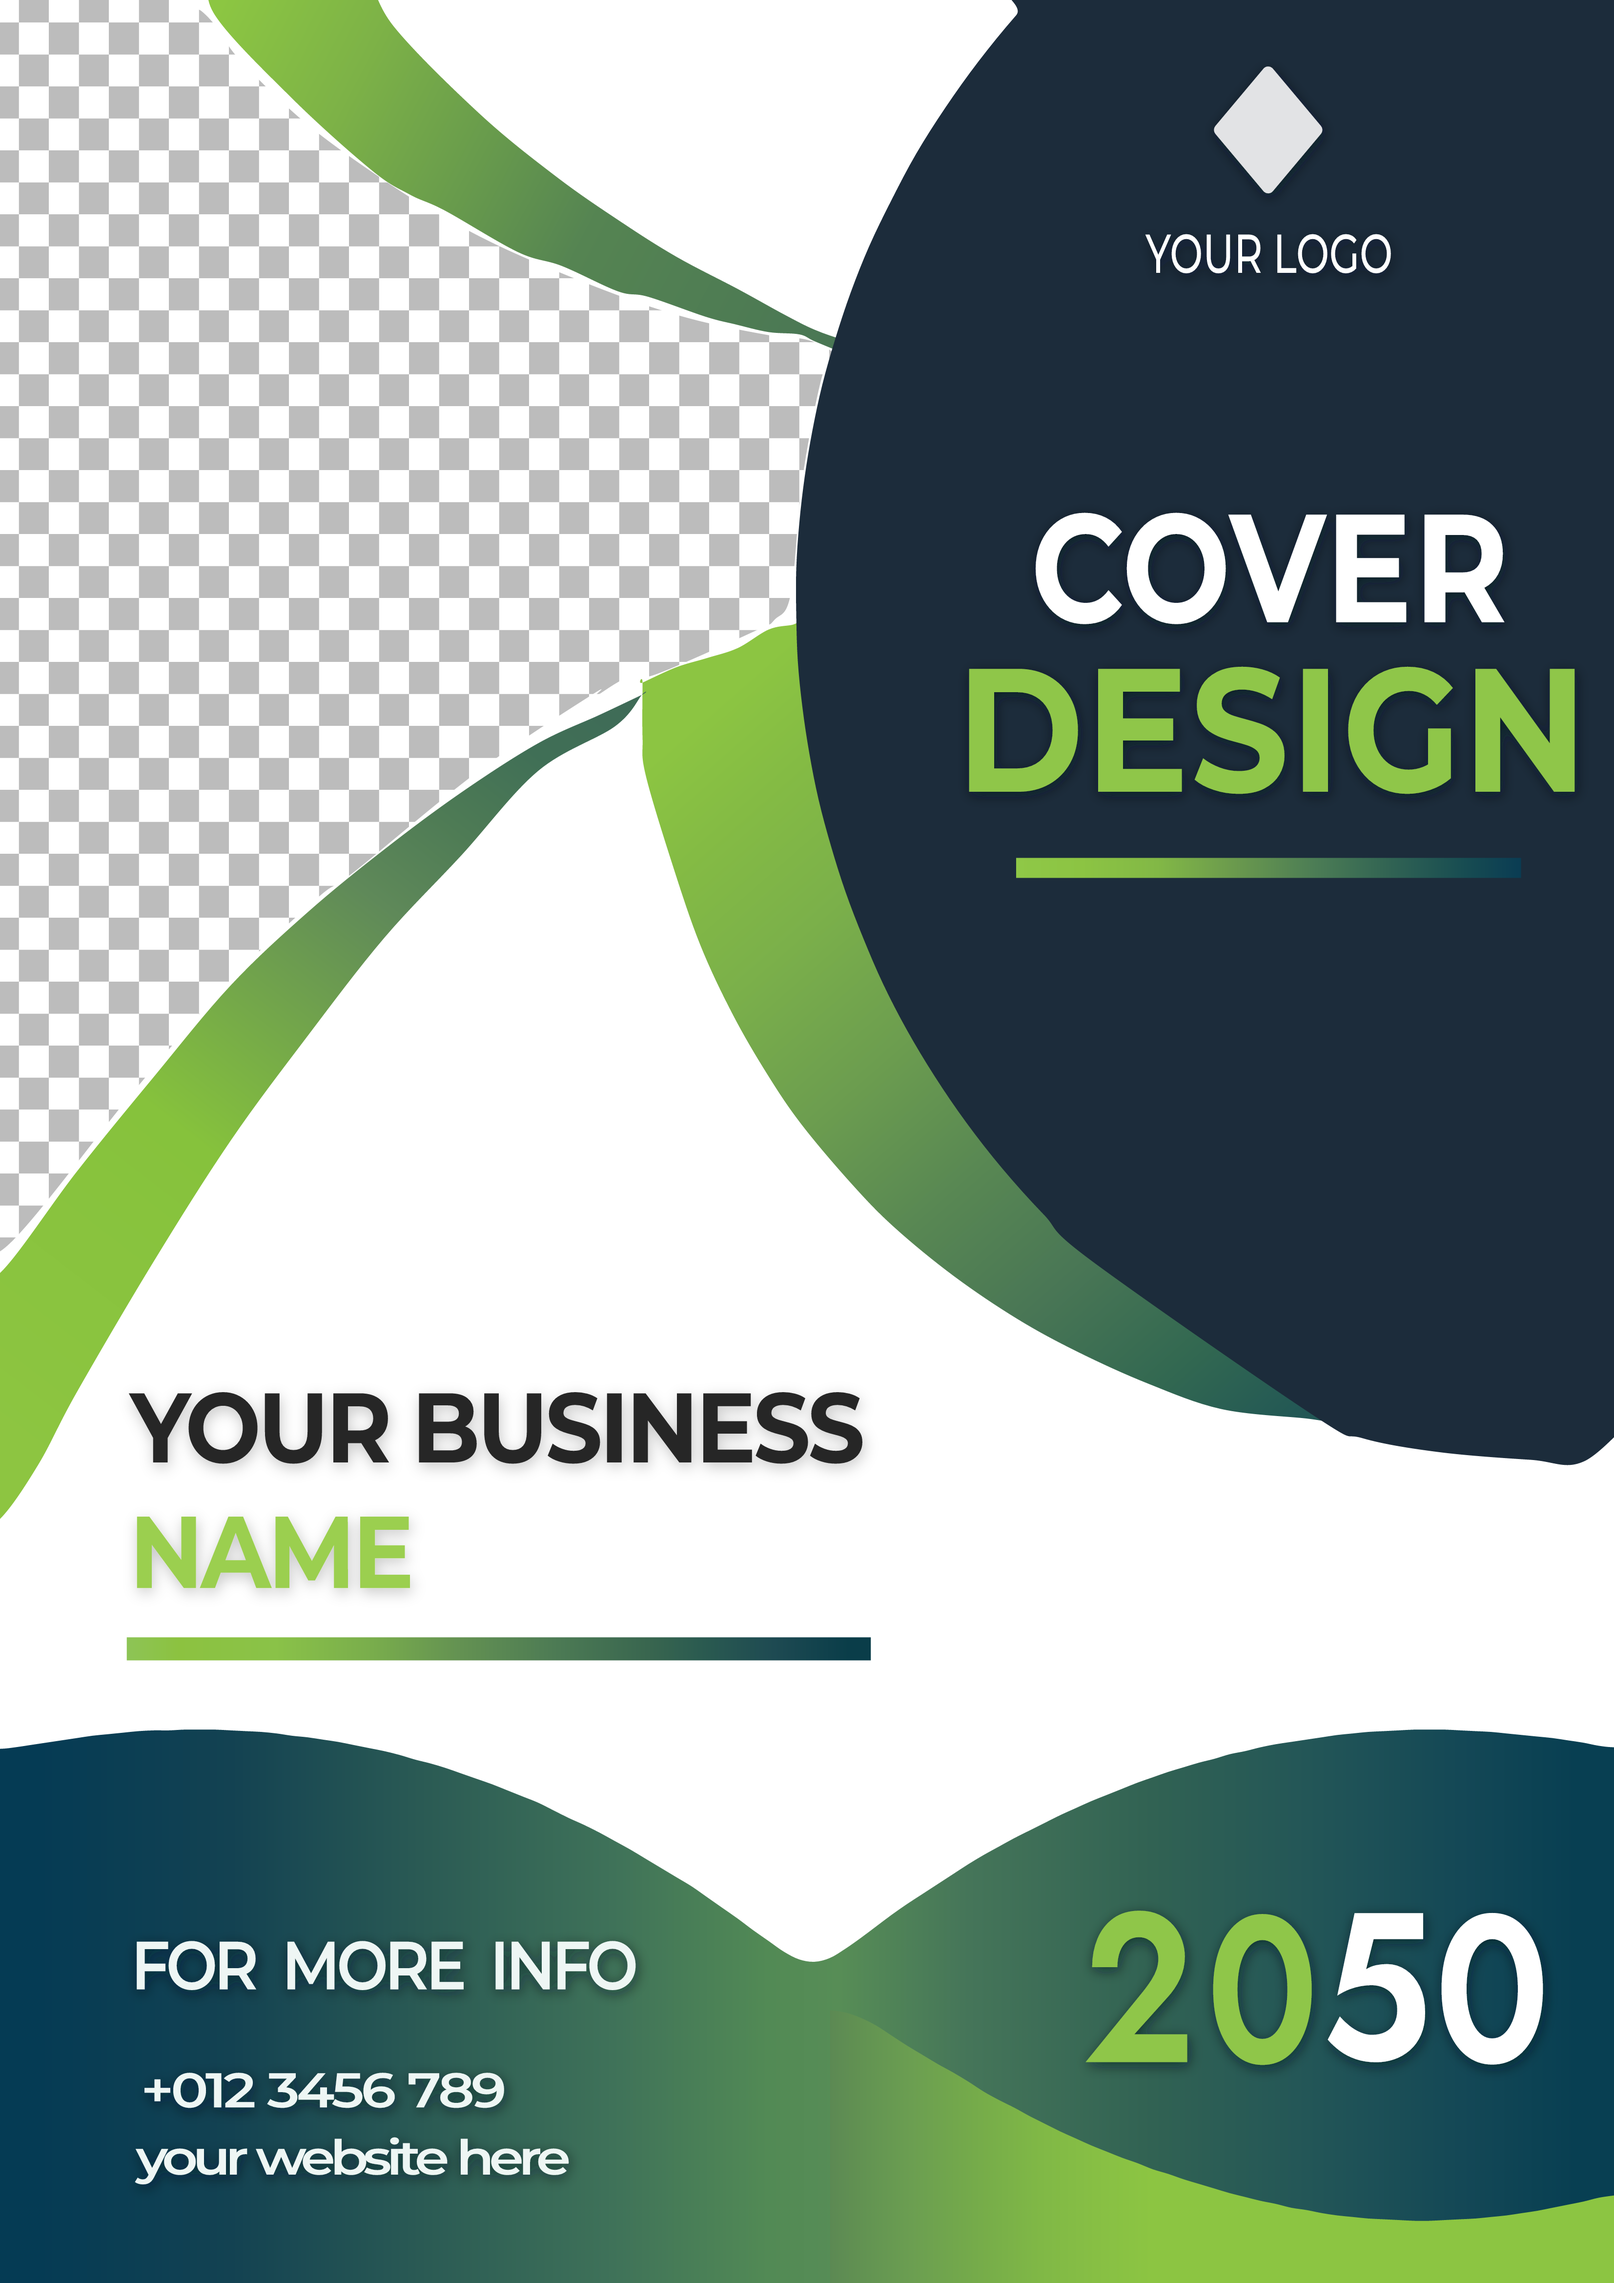
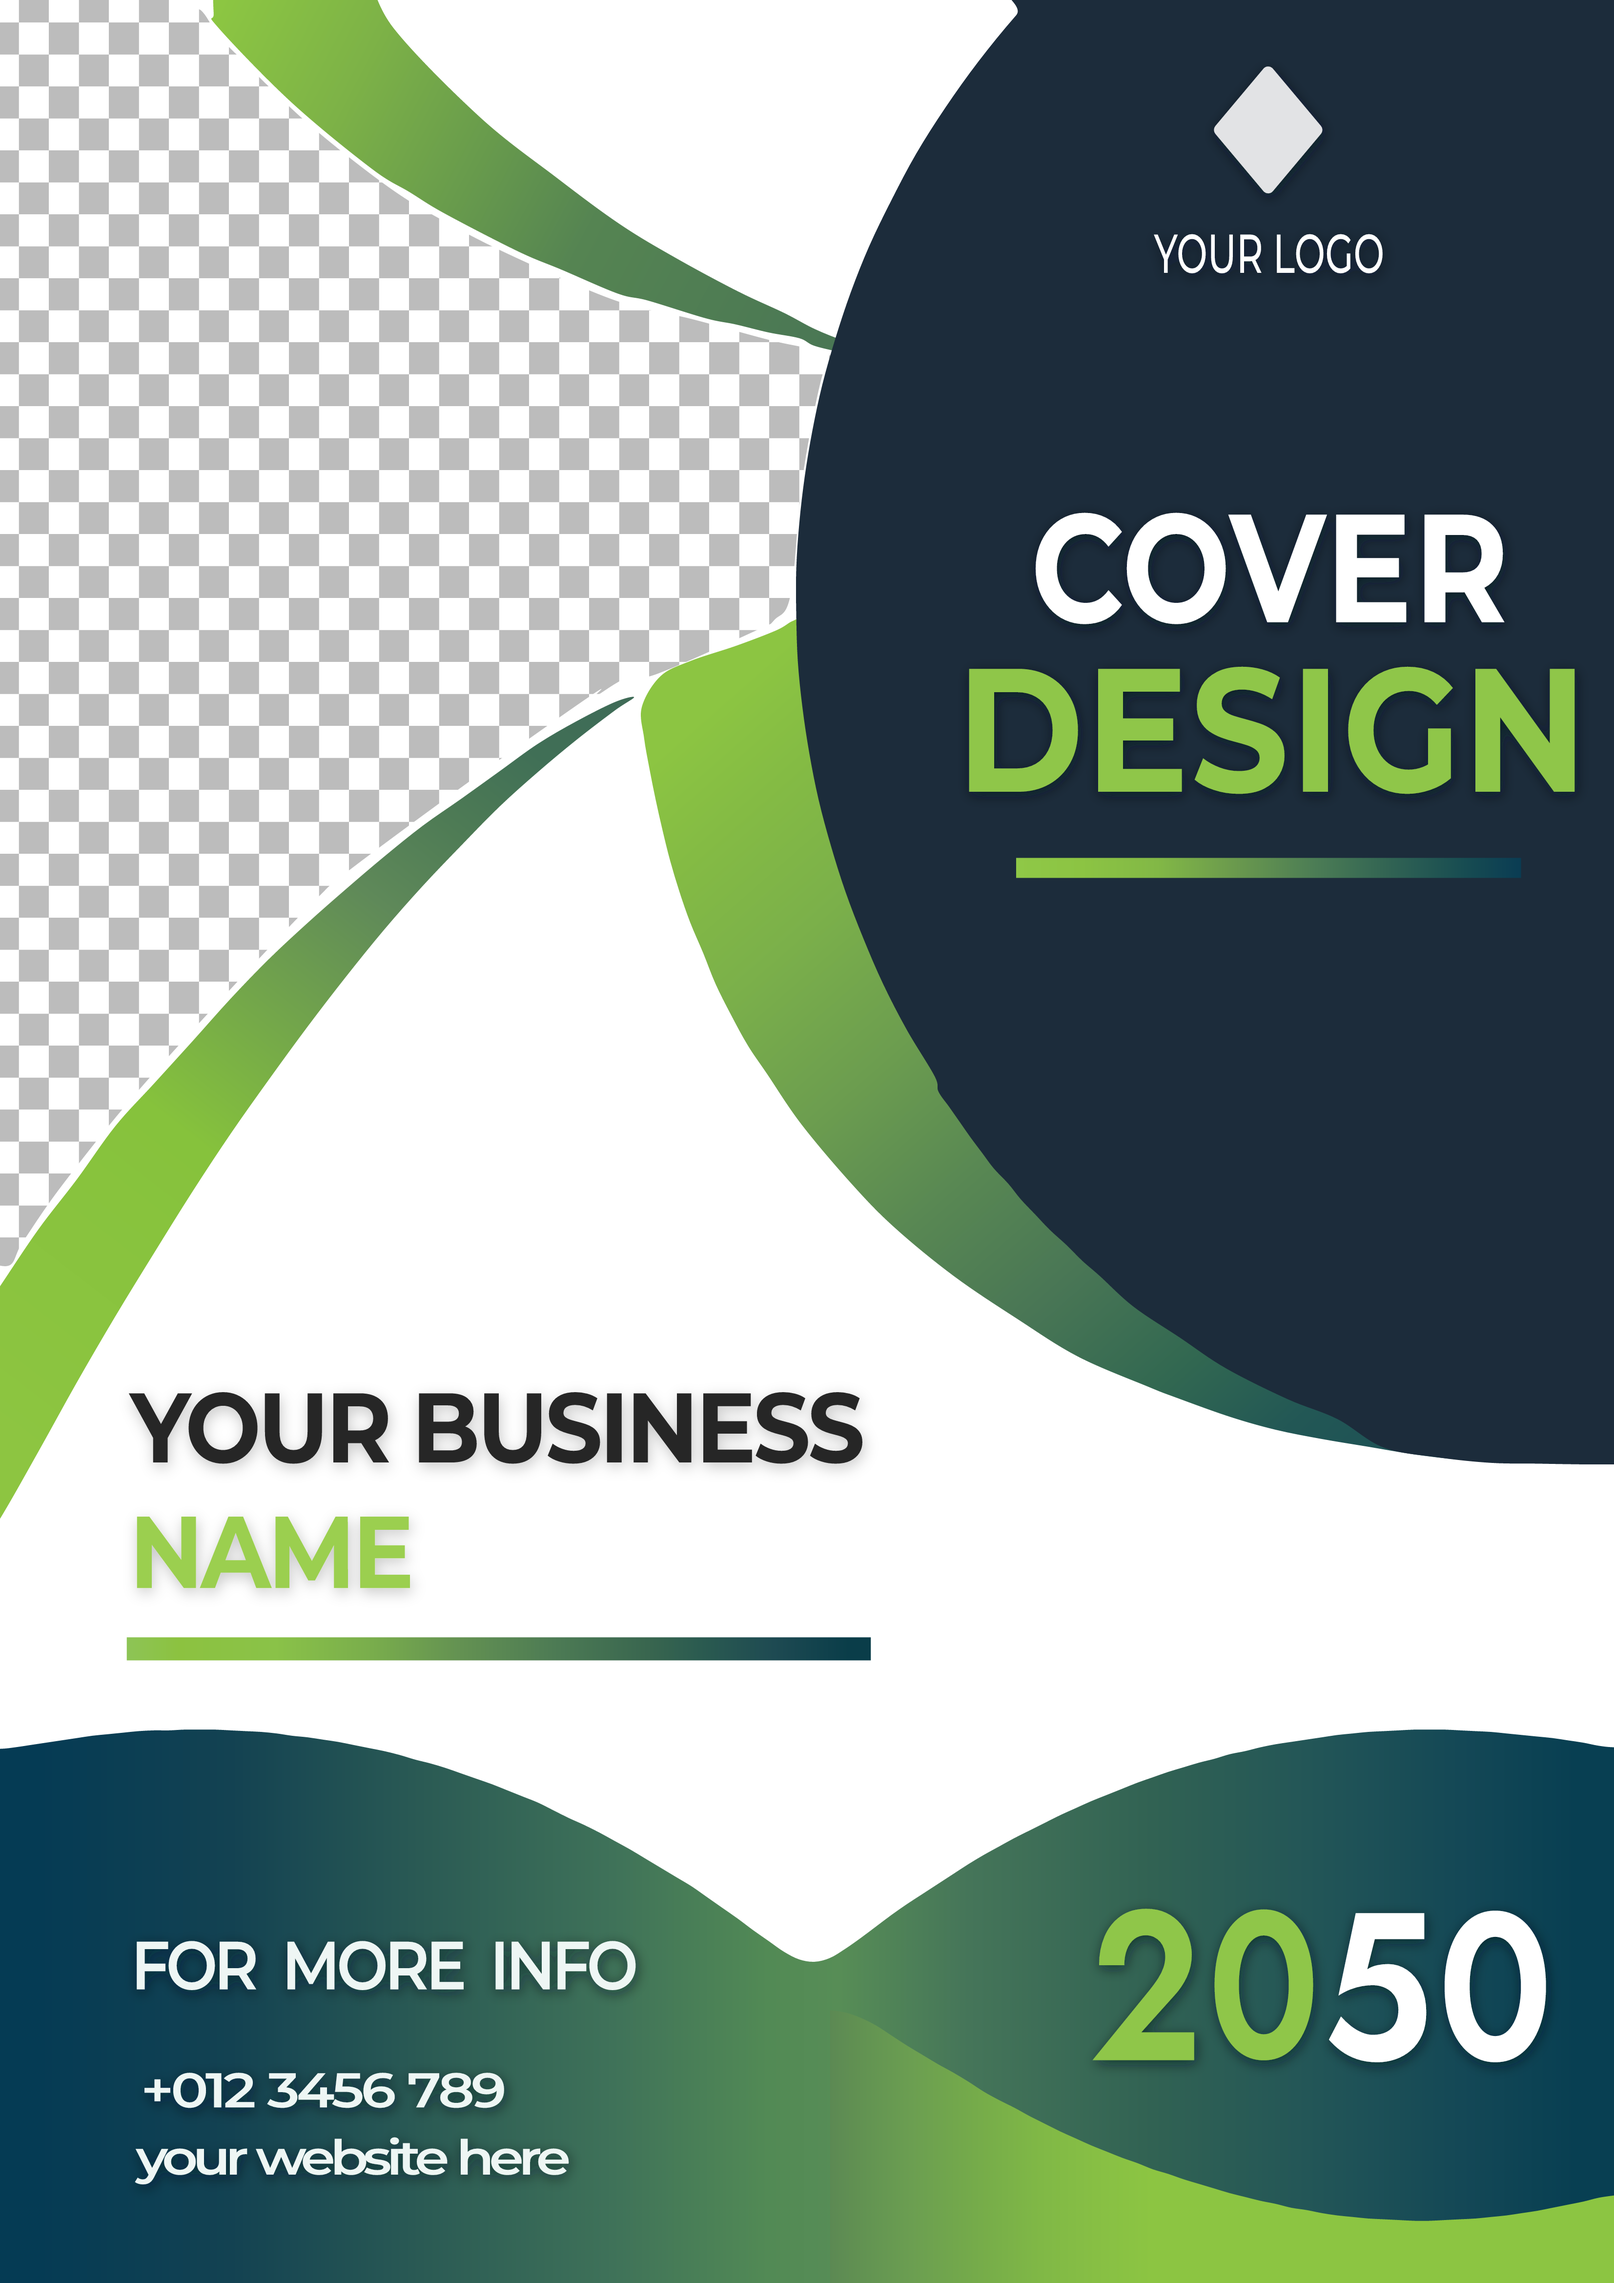
cover: trace ribbon, band and disc edges from 50 % crossings; white margin around the shapes
- Swoosh and left ribbon rebuilt from per-column 50 % crossings (both were
  ~1 mm too thick); band's upper-left edge and the crescent's lower edge follow
  the measured curves; disc's lower-left arc and bottom edge measured.
- The transparency grid keeps a ~1 mm white margin from the green shapes, as
  in the reference; the spline overshoot at the disc's right corner is gone.
- Year digits nudged (positions/baselines within 0.3 mm); YOUR LOGO condensed
  to .67 so its ink width matches.
- Mean pixel diff vs the reference: 6.05 -> 5.74.

diff --git a/scripts/build_cover.py b/scripts/build_cover.py
@@ -249,29 +249,37 @@ class Art:
 # from the trim corner. Ribbon, disc and grid contours are closed; panel_top and
 # band_top are open edges running left to right.
 SHAPES = {
-    'swoosh': [
-        (114.0, 47.2), (110.0, 46.0), (106.0, 44.4), (104.0, 43.5), (100.0, 43.2), (95.7, 42.2),
-        (91.8, 41.2), (84.3, 38.6), (80.4, 37.9), (73.1, 34.6), (67.4, 32.8),
-        (57.9, 27.4), (53.3, 25.3), (48.3, 22.1), (37.9, 12.7), (27.8, 1.7),
-        (27.9, -4.0), (29.5, -4.0), (44.5, -4.0), (47.4, -4.0), (51.2, 3.4),
-        (62.4, 14.8), (72.4, 23.0), (80.7, 28.8), (88.0, 33.4), (96.0, 37.6),
-        (102.0, 40.9), (106.0, 42.9), (110.0, 44.3), (114.0, 45.4),
+    'swoosh': [  # lower edge (tail -> top-left), bleed corner, upper edge (-> tail), all 50 % crossings
+        (114.0, 47.2), (110.0, 46.0), (106.0, 45.0), (104.0, 44.0), (100.0, 43.25),
+        (95.7, 42.2), (91.8, 41.4), (84.3, 39.1), (80.4, 38.2), (73.1, 35.1),
+        (67.4, 32.7), (57.9, 27.8), (53.3, 25.0), (48.3, 21.9), (37.9, 13.3),
+        (28.4, 3.6), (27.8, 1.7),
+        (27.9, -4.0), (29.5, -4.0), (44.5, -4.0), (47.4, -4.0),
+        (51.2, 3.65), (62.4, 15.2), (72.4, 23.1), (80.7, 29.2), (88.0, 33.6),
+        (96.0, 37.9), (102.0, 40.7), (106.0, 42.8), (110.0, 44.4), (114.0, 45.6),
     ],
-    'left': [  # upper edge then lower edge, read from the reference column by column
-        (0.0, 165.6), (10.0, 152.4), (20.0, 140.1), (30.0, 128.2), (40.0, 118.7),
-        (50.0, 110.5), (60.0, 103.1), (70.0, 96.7), (78.0, 93.0), (83.5, 90.4),
-        (83.5, 90.4), (80.0, 94.5), (70.0, 100.3), (60.0, 111.3), (50.0, 122.0),
-        (40.0, 134.8), (30.0, 148.4), (20.0, 164.1), (10.0, 181.1), (5.0, 190.5),
-        (0.0, 197.6), (-4.0, 199.5), (-4.0, 165.6),
+    'left': [  # upper edge (bleed -> tip) then lower edge (tip -> bleed); 50 % crossings
+        (-4.0, 173.3), (0.0, 167.33), (5.0, 159.92), (10.0, 153.42), (15.0, 146.5),
+        (20.0, 141.0), (25.0, 135.5), (30.0, 129.92), (35.0, 124.75), (40.0, 120.08),
+        (45.0, 115.67), (50.0, 111.42), (55.0, 107.42), (60.0, 103.92), (65.0, 100.33),
+        (70.0, 96.75), (75.0, 93.83), (80.0, 91.33), (82.5, 90.7),
+        (80.0, 92.42), (75.0, 96.25), (70.0, 100.42), (65.0, 104.92), (60.0, 110.0),
+        (55.0, 115.25), (50.0, 120.92), (45.0, 127.08), (40.0, 133.58), (35.0, 140.42),
+        (30.0, 147.5), (25.0, 155.08), (20.0, 163.08), (15.0, 171.25), (10.0, 179.83),
+        (5.0, 188.83), (0.0, 197.58), (-4.0, 203.6),
     ],
     'crescent': [
-        (174.2, 184.9), (169.7, 184.5), (158.9, 183.3), (149.4, 180.0), (140.3, 175.9),
+        (206.0, 190.4), (196.0, 190.2), (190.0, 189.9), (184.0, 189.2), (178.0, 188.2),
+        (172.0, 187.2), (166.0, 186.0), (160.0, 184.3), (153.0, 181.8), (149.4, 180.4),
+        (140.3, 176.5),
         (132.4, 171.6), (124.1, 166.0), (116.4, 159.7), (110.8, 154.0), (104.3, 146.3),
-        (99.8, 139.7), (95.3, 131.9), (91.1, 122.9), (87.5, 112.5),
-        (84.0, 100.8), (83.6, 96.0), (83.6, 88.8), (83.6, 88.8), (88.0, 86.8), (92.0, 85.6), (96.0, 84.3),
-        (100.0, 81.9), (103.0, 81.3), (104.5, 81.0), (104.8, 84.0), (107.3, 97.6),
+        (99.8, 139.7), (97.3, 136.0), (95.1, 132.0), (93.1, 128.0), (91.5, 124.0),
+        (89.8, 120.0), (88.4, 116.0), (87.2, 112.0), (86.2, 108.0), (85.3, 104.0),
+        (84.5, 100.0), (83.8, 96.0), (83.5, 92.0), (85.9, 88.0), (89.8, 86.0),
+        (95.8, 84.0), (101.0, 82.0), (103.1, 80.8), (104.5, 80.6), (104.8, 84.0), (107.3, 97.6),
         (109.2, 105.9), (111.3, 113.0), (116.7, 127.0), (124.1, 140.4), (133.2, 154.8),
-        (143.0, 162.6), (151.5, 169.4), (163.0, 177.0), (168.2, 181.6),
+        (143.0, 162.6), (151.5, 169.4), (163.0, 177.0), (170.0, 182.0), (178.0, 186.0),
+        (186.0, 188.2), (196.0, 189.2), (206.0, 189.5), (214.0, 189.6),
     ],
     'disc': [  # left/top edge: circle centre (218.9, 78.1) r 115.3, fitted to the reference
         (137.8, -4.0), (132.2, 2.0), (127.3, 8.0), (123.0, 14.0),
@@ -280,23 +288,28 @@ SHAPES = {
         (104.0, 68.0), (103.6, 74.0), (103.6, 80.0), (103.8, 86.0),
         (104.4, 92.0), (105.3, 98.0), (106.5, 104.0), (108.1, 110.0),
         (110.0, 116.0), (112.3, 122.0), (114.9, 128.0), (118.0, 134.0),
-        (121.6, 140.0), (125.7, 146.0), (130.4, 152.0), (135.8, 158.0),
-        (142.0, 164.0), (171.0, 184.2), (177.3, 187.1), (187.2, 188.9),
-        (199.1, 189.9), (206.1, 190.1), (214.0, 183.2), (214.0, 186.2),
-        (214.0, 189.4), (214.0, 190.1), (214.0, -4.0),
+        (121.6, 140.0), (122.1, 142.0), (123.5, 144.0), (124.9, 146.0),
+        (126.3, 148.0), (127.8, 150.0), (129.3, 152.0), (131.2, 154.0),
+        (132.8, 156.0), (134.7, 158.0), (136.6, 160.0), (138.8, 162.0),
+        (140.8, 164.0), (143.1, 166.0), (147.5, 170.0), (153.5, 174.0),
+        (159.5, 178.0), (167.5, 182.0), (174.0, 184.6), (180.0, 188.3), (187.2, 189.6),
+        (194.0, 190.3), (200.0, 190.4), (206.0, 190.5), (212.0, 190.5),
+        (214.0, 190.5), (214.0, 150.0), (214.0, 100.0), (214.0, 50.0),
+        (214.0, 0.0), (214.0, -4.0),
     ],
     'grid': [
-        (0.9, 162.1), (-4.0, 160.8), (-4.0, 157.9), (-4.0, 150.9), (-4.0, 73.9),
+        (-4.0, 162.5), (-4.0, 157.9), (-4.0, 150.9), (-4.0, 73.9),
         (-4.0, 73.0), (-4.0, 67.0), (-4.0, 64.1), (-4.0, 58.1), (-4.0, 56.2),
         (-4.0, 50.2), (-4.0, 47.3), (-4.0, 41.3), (-4.0, 39.4), (-4.0, 33.5),
         (-4.0, 30.5), (-4.0, 24.6), (-4.0, 22.6), (-4.0, 16.7), (-4.0, 14.8),
         (-4.0, 7.8), (0.7, 2.2), (2.1, 0.7), (3.9, -4.0), (6.9, -4.0),
-        (11.9, -4.0), (17.8, -4.0), (24.7, 0.6), (26.4, 1.6), (28.4, 3.8),
-        (31.3, 7.9), (40.0, 16.2), (50.5, 23.8), (58.2, 28.5), (67.1, 33.0),
-        (80.1, 38.3), (90.0, 41.5), (100.0, 43.6), (105.0, 44.2), (108.3, 45.8),
+        (11.9, -4.0), (17.8, -4.0), (24.7, 0.6), (26.4, 1.6), (28.4, 4.6),
+        (31.3, 7.6), (40.0, 16.0), (50.5, 24.3), (58.2, 29.0), (67.1, 33.5),
+        (80.1, 39.1), (90.0, 41.5), (100.0, 44.2), (105.0, 45.3), (108.3, 46.4),
         (108.6, 47.6), (107.0, 48.8), (104.4, 62.3), (102.9, 77.2), (100.8, 80.6),
         (98.2, 82.1), (85.4, 87.7), (81.5, 88.2), (77.3, 90.7), (77.3, 90.2),
-        (62.4, 100.2), (46.1, 113.4), (41.2, 116.9), (29.6, 127.9), (17.2, 142.2),
+        (62.4, 100.7), (46.1, 112.7), (41.2, 116.9), (29.6, 129.1), (17.2, 142.8),
+        (8.0, 154.3), (3.0, 161.5), (0.9, 164.7),
     ],
     'panel_top': [
         (0, 227.5), (2, 227.3), (4, 227.0), (6, 226.7), (8, 226.4),
@@ -404,7 +417,7 @@ def wordmark(a):
         d, stroke = rounded_rhombus(165, 16.9, 7.3, 8.7, 1.6)
         a.tag('path', d=d, fill='#e2e3e5', stroke='#e2e3e5',
               **{'stroke-width': n(mm(stroke)), 'stroke-linejoin': 'round'})
-        a.text(mm(165), mm(35.5), COPY['logo'], 28.5, 'medium', WHITE, align='center', condense=.72)
+        a.text(mm(165), mm(35.5), COPY['logo'], 28.5, 'medium', WHITE, align='center', condense=.67)
         a.text(mm(165.25), mm(80.95), COPY['cover'][0], 80, 'bold', WHITE, align='center',
                fit=mm(61), condense=.84)
         a.text(mm(165.5), mm(103.0), COPY['cover'][1], 91.4, 'bold', GREEN, align='center',
@@ -433,8 +446,8 @@ def name_block(a):
 
 
 #            size  condense  fit    x       align     baseline  face
-YEAR_DIGITS = [(110.5, .85, 14.3, 141.25, 'left', 268.25, 'jost-semibold'), (108.5, .84, 13.5, 170.67, 'right', 268.3, 'jost-semibold'),
-               (109, .86, 12.67, 172.75, 'left', 267.95, 'jost-semibold'), (109, .86, 12.6, 200.75, 'right', 268.25, 'jost-semibold')]
+YEAR_DIGITS = [(110.5, .85, 14.3, 142.15, 'left', 268.0, 'jost-semibold'), (108.5, .84, 13.5, 170.85, 'right', 267.7, 'jost-semibold'),
+               (109, .86, 12.67, 172.9, 'left', 267.95, 'jost-semibold'), (109, .86, 12.6, 201.15, 'right', 267.95, 'jost-semibold')]
 
 
 def panel(a):
